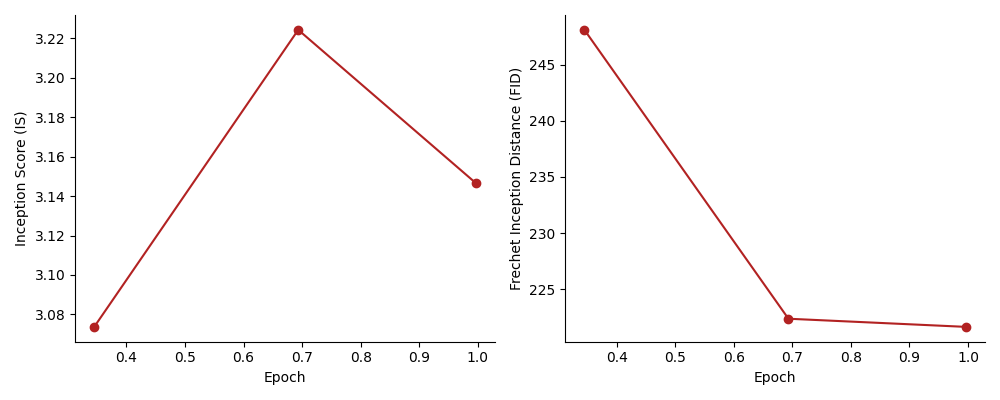
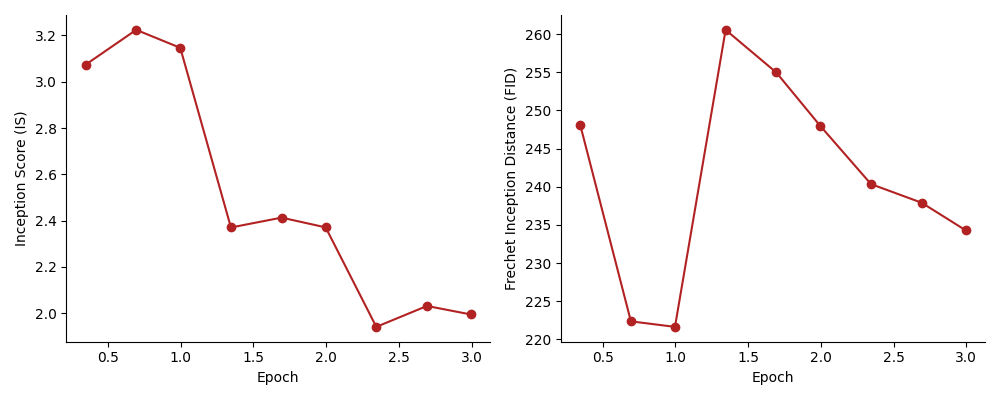
updated readme

diff --git a/README.md b/README.md
@@ -6,9 +6,15 @@ Alex Wong (alex.wong@yale.edu)
 
 ## Main Contributions
 1. We created a GAN evaluator for IS and FID that is easy to use and flexible.
-2. We provided a simple script to demonstrate one common use case.
+2. We provided a simple demo script to demonstrate one common use case.
 
-## D
+## Demo Script: Use [DCGAN](https://pytorch.org/tutorials/beginner/dcgan_faces_tutorial) to generate [SVHN](http://ufldl.stanford.edu/housenumbers/) numbers.
+
+1. Real (top) and Generated (bottom) images after 50 epochs of training.
+<img src = "debug_plot/dcgan_svhn/IS_FID_curve.png" width=600>
+
+2. IS and FID curves.
+<img src = "debug_plot/dcgan_svhn/epoch_0002_batch_0286_generated.png" width=600>
 
 ## Introduction to the Evaluator
 <details>
